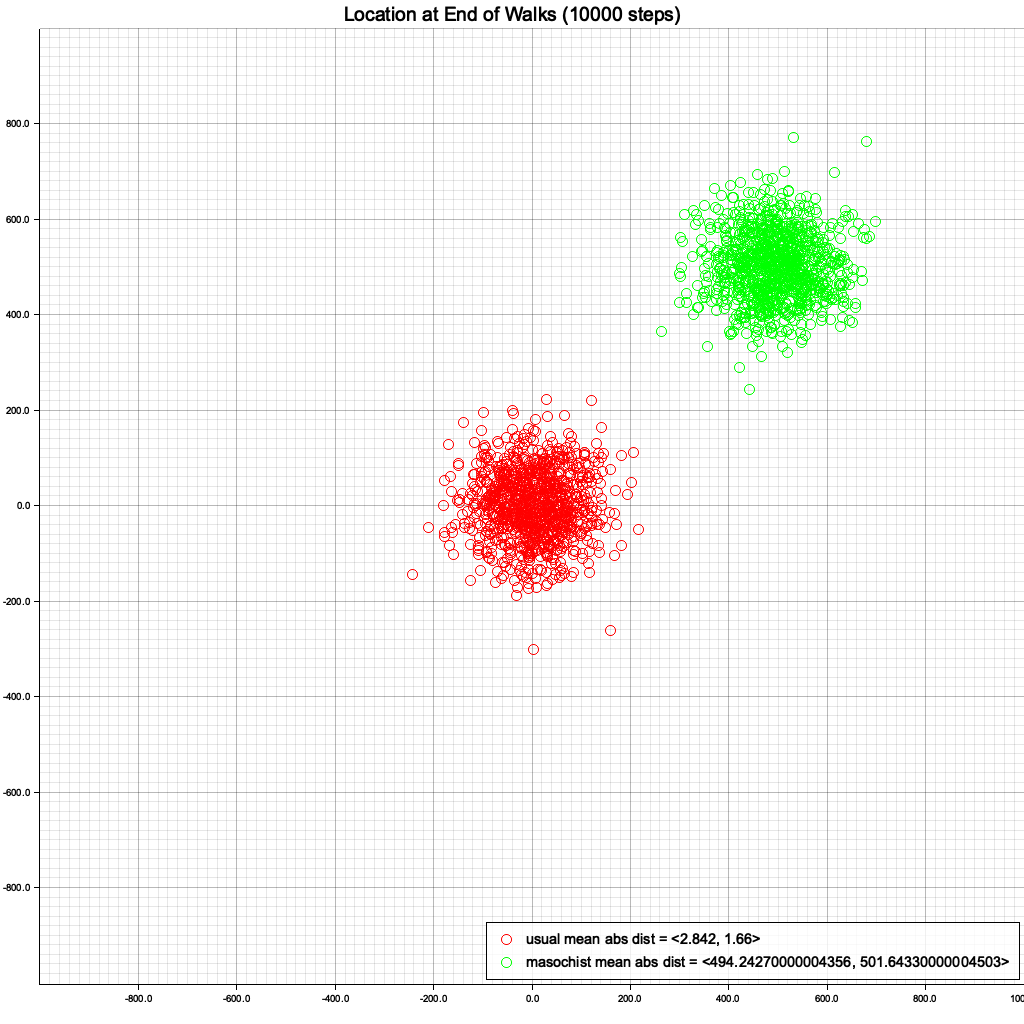
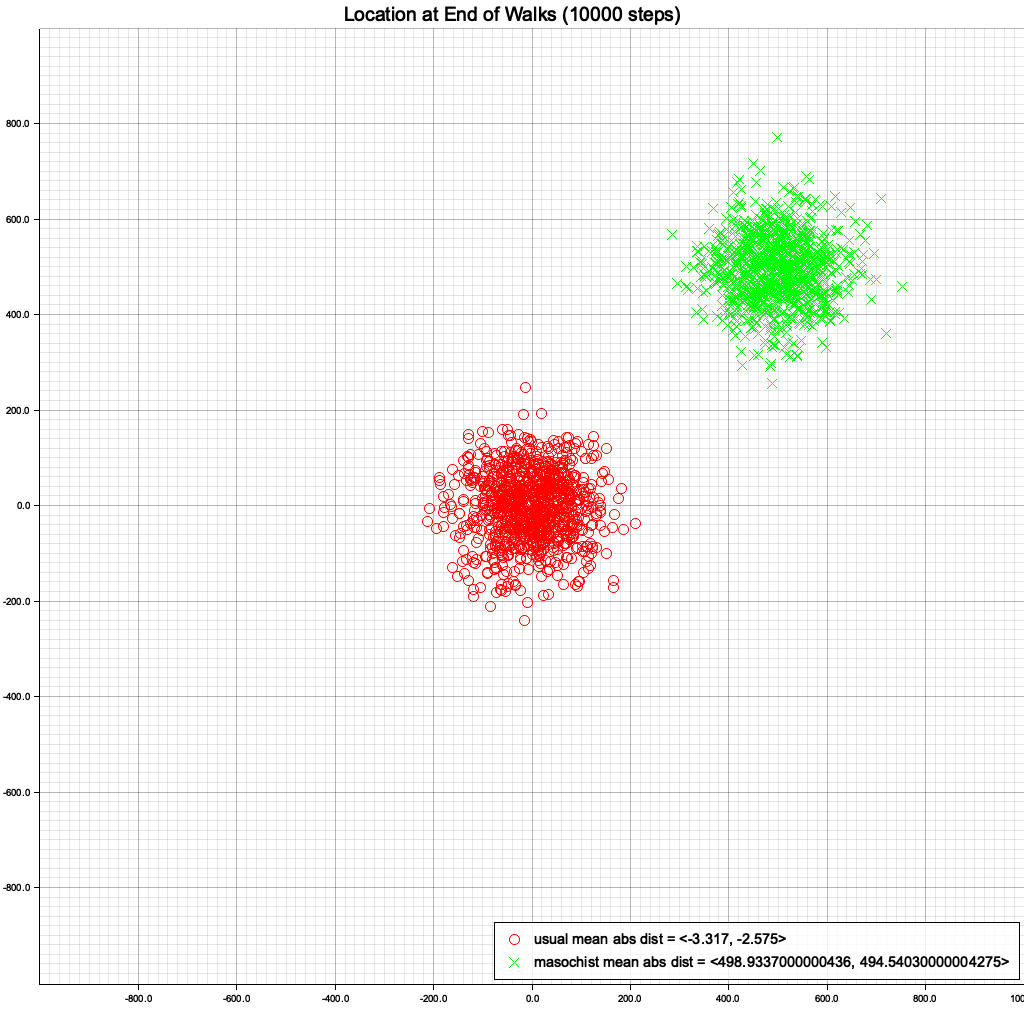
use Cross element

diff --git a/random-walk/src/main.rs b/random-walk/src/main.rs
@@ -283,10 +283,10 @@ fn plot_locs(drunks: &Vec<Drunk>, num_steps: u32, num_trials: u32) {
                 .label(legend_text)
                 .legend(|(x, y)| Circle::new((x + 10, y), 5, &RED));
         } else {
-            ctx.draw_series(points.iter().map(|point| Circle::new(*point, 5, &GREEN)))
+            ctx.draw_series(points.iter().map(|point| Cross::new(*point, 5, &GREEN)))
                 .unwrap()
                 .label(legend_text)
-                .legend(|(x, y)| Circle::new((x + 10, y), 5, &GREEN));
+                .legend(|(x, y)| Cross::new((x + 10, y), 5, &GREEN));
         }
     }
 
